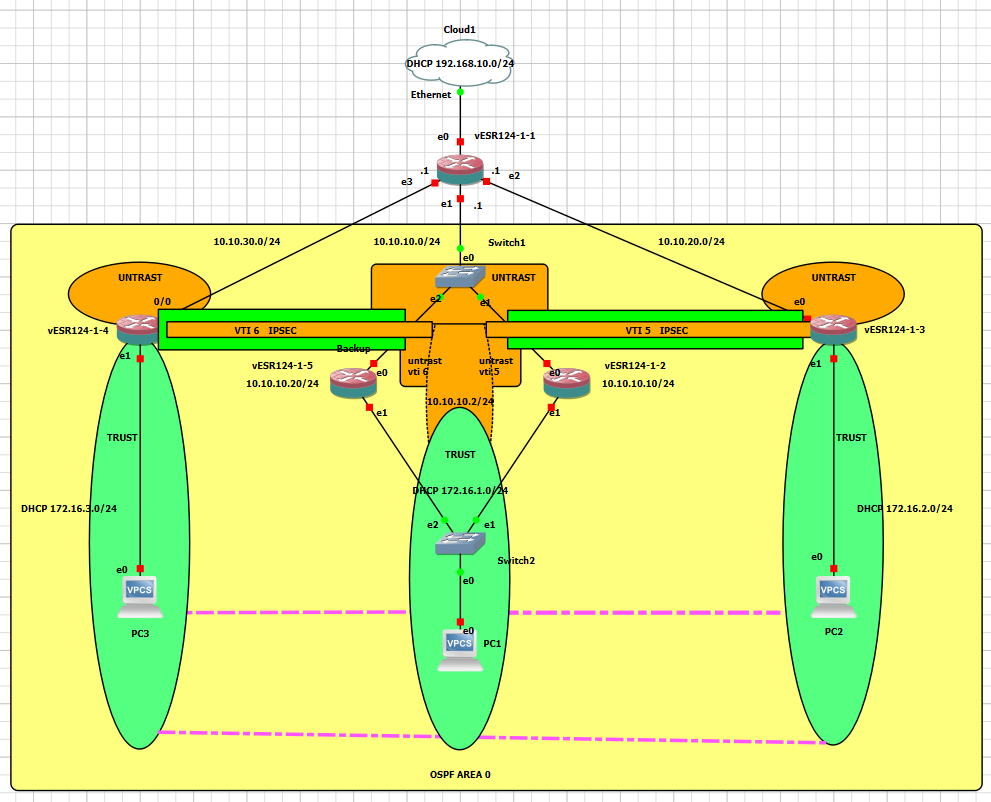
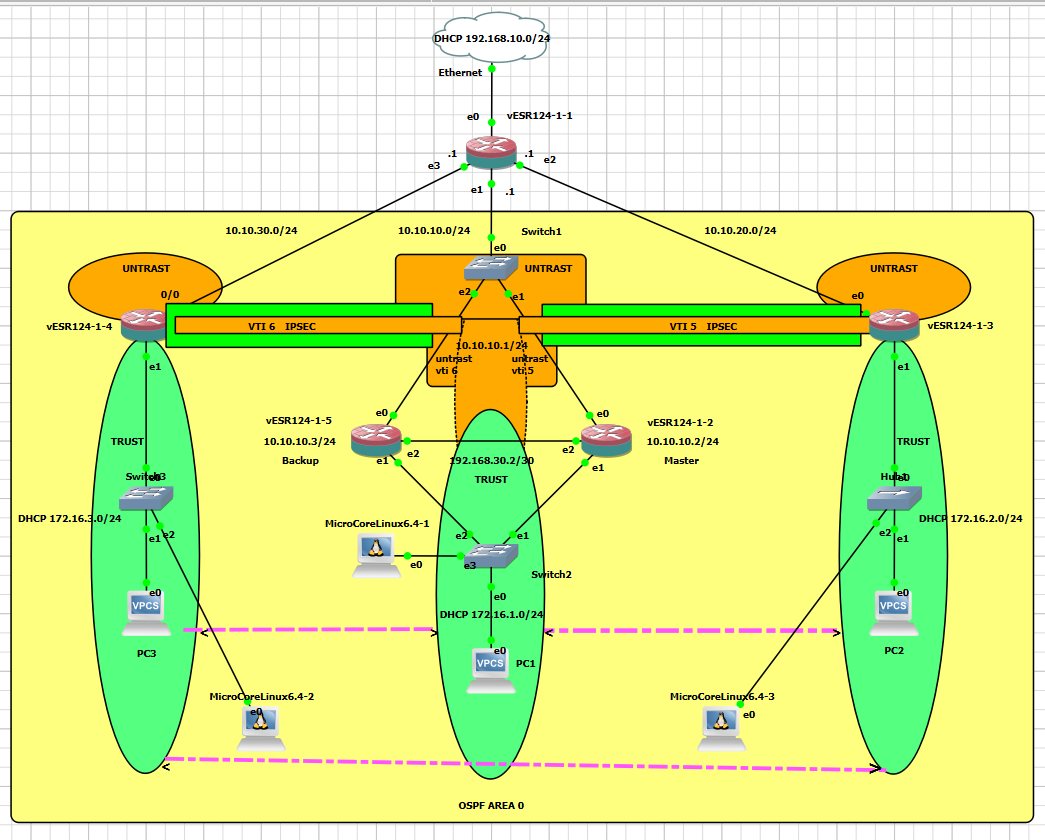
Изменения к рисунку гл.16 и новый индексюphp

diff --git a/index.php b/index.php
@@ -1,0 +1,322 @@
+<!DOCTYPE html>
+<html lang="ru">
+
+<head>
+    <meta charset="UTF-8">
+    <!-- Yandex.Metrika counter -->
+    <script type="text/javascript">
+        (function (m, e, t, r, i, k, a) {
+            m[i] = m[i] || function () { (m[i].a = m[i].a || []).push(arguments) };
+            m[i].l = 1 * new Date();
+            for (var j = 0; j < document.scripts.length; j++) { if (document.scripts[j].src === r) { return; } }
+            k = e.createElement(t), a = e.getElementsByTagName(t)[0], k.async = 1, k.src = r, a.parentNode.insertBefore(k, a)
+        })(window, document, 'script', 'https://mc.yandex.ru/metrika/tag.js?id=103954742', 'ym');
+
+        ym(103954742, 'init', { ssr: true, webvisor: true, clickmap: true, ecommerce: "dataLayer", accurateTrackBounce: true, trackLinks: true });
+    </script>
+    <noscript>
+        <div><img src="https://mc.yandex.ru/watch/103954742" style="position:absolute; left:-9999px;" alt="" /></div>
+    </noscript>
+    <!-- /Yandex.Metrika counter -->
+    <link rel="canonical" href="https://es.ptah57.keenetic.pro/index.html" />
+    <meta charset="UTF-8">
+    <meta name="google-site-verification" content="uAXfaxuc8XGJrQatiu7ee5ueZ7VTe7ap9HKP460ANNQ" />
+    <meta name="yandex-verification" content="9b3d1e07776fb976" />
+    <link rel="icon" type="image/png" href="/favicon-96x96.png" sizes="96x96" />
+    <link rel="icon" type="image/svg+xml" href="/favicon.svg" />
+    <link rel="shortcut icon" href="/favicon.ico" />
+    <link rel="apple-touch-icon" sizes="180x180" href="/apple-touch-icon.png" />
+    <meta name="apple-mobile-web-app-title" content="Book-vESR-GNS3" />
+    <link rel="manifest" href="/site.webmanifest" />
+    <meta name="description" content="Author: Р.Х.Фахрутдинов,
+    РУКОВОДСТВО ДЛЯ РАБОТЫ С МАРШРУТИЗАТОРОМ VESR В СИМУЛЯТОРЕ GNS3, Category: Books, Price: Free,
+    Length: 212 pages">
+    <meta name="viewport" content="width=device-width, initial-scale=1.0">
+    <title>РУКОВОДСТВО ДЛЯ РАБОТЫ С МАРШРУТИЗАТОРОМ VESR В СИМУЛЯТОРЕ GNS3</title>
+    <link rel="preconnect" href="https://fonts.googleapis.com">
+    <link rel="preconnect" href="https://fonts.gstatic.com" crossorigin>
+    <link href="https://fonts.googleapis.com/css2?family=Inter:wght@300;400;500;600;700&display=swap" rel="stylesheet">
+    <link rel="stylesheet" href="https://cdnjs.cloudflare.com/ajax/libs/font-awesome/6.4.0/css/all.min.css">
+    <style>
+        :root {
+            --primary: #6c5ce7;
+            --primary-dark: #5649c0;
+            --secondary: #a29bfe;
+            --accent: #fd79a8;
+            --text: #2d3436;
+            --text-light: #636e72;
+            --background: #f8f9fa;
+            --card-bg: #ffffff;
+            --gradient: linear-gradient(120deg, #6c5ce7, #a29bfe);
+            --shadow: 0 10px 30px rgba(0, 0, 0, 0.1);
+            --shadow-hover: 0 15px 40px rgba(108, 92, 231, 0.2);
+        }
+
+        * {
+            margin: 0;
+            padding: 0;
+            box-sizing: border-box;
+        }
+
+        body {
+            font-family: 'Inter', sans-serif;
+            background-color: var(--background);
+            color: var(--text);
+            line-height: 1.6;
+            padding: 0;
+            min-height: 100vh;
+            display: flex;
+            flex-direction: column;
+            align-items: center;
+            justify-content: center;
+            background-image:
+                radial-gradient(circle at 5% 10%, rgba(108, 92, 231, 0.05) 0%, transparent 20%),
+                radial-gradient(circle at 95% 10%, rgba(253, 121, 168, 0.05) 0%, transparent 20%),
+                radial-gradient(circle at 50% 90%, rgba(162, 155, 254, 0.05) 0%, transparent 20%);
+        }
+
+        .container {
+            max-width: 800px;
+            width: 90%;
+            margin: 40px auto;
+            background-color: var(--card-bg);
+            padding: 40px;
+            border-radius: 20px;
+            box-shadow: var(--shadow);
+            transition: transform 0.3s ease, box-shadow 0.3s ease;
+            position: relative;
+            overflow: hidden;
+        }
+
+        .container::before {
+            content: '';
+            position: absolute;
+            top: 0;
+            left: 0;
+            width: 100%;
+            height: 5px;
+            background: var(--gradient);
+        }
+
+        .container:hover {
+            transform: translateY(-5px);
+            box-shadow: var(--shadow-hover);
+        }
+
+        h1 {
+            color: var(--primary);
+            font-weight: 700;
+            font-size: 28px;
+            margin-bottom: 25px;
+            text-align: center;
+            line-height: 1.3;
+        }
+
+        p {
+            color: var(--text-light);
+            margin-bottom: 30px;
+            text-align: center;
+            font-size: 18px;
+            line-height: 1.6;
+        }
+
+        .btn-container {
+            display: flex;
+            flex-direction: column;
+            gap: 15px;
+            margin-top: 20px;
+        }
+
+        .btn {
+            display: flex;
+            align-items: center;
+            justify-content: center;
+            gap: 12px;
+            padding: 16px 25px;
+            background: var(--gradient);
+            color: white;
+            text-decoration: none;
+            border-radius: 12px;
+            font-weight: 600;
+            transition: all 0.3s ease;
+            box-shadow: 0 4px 15px rgba(108, 92, 231, 0.3);
+            position: relative;
+            overflow: hidden;
+        }
+
+        .btn::before {
+            content: '';
+            position: absolute;
+            top: 0;
+            left: -100%;
+            width: 100%;
+            height: 100%;
+            background: linear-gradient(90deg, transparent, rgba(255, 255, 255, 0.2), transparent);
+            transition: all 0.6s ease;
+        }
+
+        .btn:hover {
+            transform: translateY(-3px);
+            box-shadow: 0 8px 20px rgba(108, 92, 231, 0.4);
+        }
+
+        .btn:hover::before {
+            left: 100%;
+        }
+
+        .btn-secondary {
+            background: var(--card-bg);
+            color: var(--primary);
+            border: 2px solid var(--primary);
+            box-shadow: none;
+        }
+
+        .btn-secondary:hover {
+            background: rgba(108, 92, 231, 0.05);
+        }
+
+        .heart {
+            color: var(--accent);
+            font-size: 24px;
+            display: inline-block;
+            animation: pulse 1.5s infinite;
+        }
+
+        @keyframes pulse {
+            0% {
+                transform: scale(1);
+            }
+
+            50% {
+                transform: scale(1.1);
+            }
+
+            100% {
+                transform: scale(1);
+            }
+        }
+
+        .footer {
+            margin-top: 30px;
+            font-size: 14px;
+            color: var(--text-light);
+            text-align: center;
+        }
+
+        .decorative-element {
+            position: absolute;
+            width: 200px;
+            height: 200px;
+            background: linear-gradient(120deg, rgba(108, 92, 231, 0.1), rgba(253, 121, 168, 0.1));
+            border-radius: 50%;
+            z-index: -1;
+        }
+
+        .decorative-element:nth-child(1) {
+            top: -100px;
+            right: -100px;
+        }
+
+        .decorative-element:nth-child(2) {
+            bottom: -100px;
+            left: -100px;
+            width: 250px;
+            height: 250px;
+        }
+
+        @media (max-width: 768px) {
+            .container {
+                padding: 30px 20px;
+                width: 95%;
+            }
+
+            h1 {
+                font-size: 24px;
+            }
+
+            p {
+                font-size: 16px;
+            }
+
+            .btn {
+                padding: 14px 20px;
+                font-size: 14px;
+            }
+        }
+    </style>
+</head>
+
+<body>
+    <div class="container">
+        <div class="decorative-element"></div>
+        <div class="decorative-element"></div>
+
+        <h1>РУКОВОДСТВО ДЛЯ РАБОТЫ С МАРШРУТИЗАТОРОМ VESR В СИМУЛЯТОРЕ GNS3</h1>
+        <div>
+            <a href="https://boosty.to/rinatxf/posts/ad333015-3b9e-45c4-acd8-5a2fb266fecb?share=post_link">
+                <img src='coverbook.jpg' width="311" height="470"> </a>
+            <img src='ris13-5.jpg' width="360" height="470">
+        </div>
+        <p>
+            Современные сетевые технологии требуют не только теоретических знаний,
+            но и практических навыков работы с оборудованием. Однако доступ к реальным
+            маршрутизаторам и коммутаторам зачастую ограничен, особенно на этапе обучения.
+            Выходом становится использование виртуальных сред, таких как GNS3, которые
+            позволяют моделировать сложные сети на обычном компьютере.
+            <br><br>
+            Эта книга для новичков в сетевых технологиях и посвящена работе
+            с виртуальным сервисным маршрутизатором vESR от Eltex.
+            <span class="heart">♥</span>
+        </p>
+
+        <div class="btn-container">
+            <a href="https://github.com/ptah57/Book" class="btn">
+                <i class="fab fa-github"></i> Весь проект на Github
+            </a>
+
+            <a href="download.php?format=pdf" class="btn">
+                <i class="fas fa-download"></i> Скачать книгу (PDF)
+            </a>
+
+            <a href="download.php?format=epub" class="btn">
+                <i class="fas fa-download"></i> Скачать книгу (EPUB)
+            </a>
+
+            <a href="download.php?format=fb2" class="btn">
+                <i class="fas fa-download"></i> Скачать книгу (FB2)
+            </a>
+
+            <a href="https://boosty.to/rinatxf/donate" class="btn btn-secondary">
+                <i class="fas fa-heart"></i> Поддержать на Boosty
+            </a>
+        </div>
+<div class="download-stats">
+    <p>Скачано уже:
+        <?php
+        $count_file = 'download_count.txt';
+        if (file_exists($count_file)) {
+            $counts = json_decode(file_get_contents($count_file), true);
+            echo $counts['total'] ?? 0;
+        } else {
+            echo 0;
+        }
+        ?> раз
+    </p>
+        <p class="footer">Спасибо за вашу поддержку!</p>
+    </div>
+    <footer>
+        <P style="color: hsl(271, 95%, 16%)">
+            <SCRIPT LANGUAGE="JavaScript">
+                document.write("Изменено: " + document.lastModified)
+            </SCRIPT>
+            <br> © 2025 <a href="mailto:Ptah57@mail.ru">Написать письмо автору Ptah57@mail.ru</a>
+        <p>
+            <a href="https://jigsaw.w3.org/css-validator/check/referer">
+                <img style="border:0;width:88px;height:31px" src="https://jigsaw.w3.org/css-validator/images/vcss-blue"
+                    alt="Правильный CSS!" />
+            </a>
+        </p>
+    </footer>
+</body>
+
+</html>
